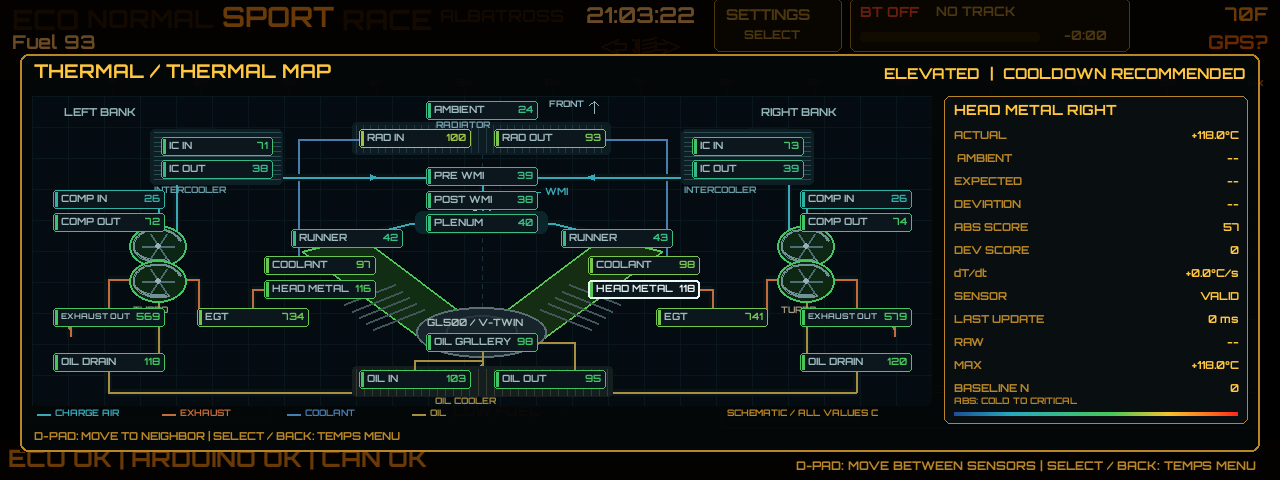
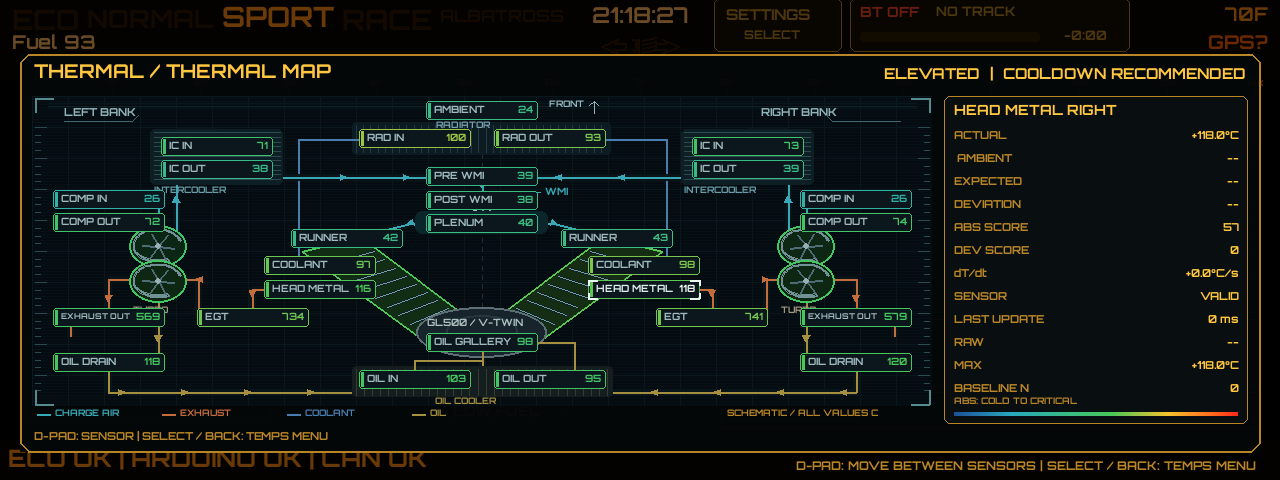
Align cylinder fins and add avionics styling to thermal HUD

diff --git a/albatross_pi/hud/thermal_architecture.py b/albatross_pi/hud/thermal_architecture.py
@@ -42,6 +42,28 @@ def neighbor(key, dx, dy):
     return min(choices)[-1] if choices else key
 
 
+def cylinder_geometry(side):
+    """Build the bank and its inset fin spans from the same four corners."""
+    polygon = ((300, 200), (365, 180), (495, 295), (445, 322))
+
+    def lerp(a, b, t):
+        return tuple(x + (y - x) * t for x, y in zip(a, b))
+
+    def bank_point(point):
+        x, y = point
+        return (1000 - x if side == "RIGHT" else x, y)
+
+    fins = []
+    for n in range(8):
+        t = .16 + n * .09
+        outer = lerp(polygon[0], polygon[3], t)
+        inner = lerp(polygon[1], polygon[2], t)
+        # Inset both ends so line width and pixel rounding stay on the casting.
+        fins.append((bank_point(lerp(outer, inner, .10)),
+                     bank_point(lerp(outer, inner, .90))))
+    return tuple(map(bank_point, polygon)), fins
+
+
 class FlowAnimation:
     """Presentation-only phases; boost controls visual revolutions, never torque."""
     ARROW_SPACING = 70.0
@@ -56,6 +78,7 @@ class FlowAnimation:
         self.rotors = {"LEFT": 0.0, "RIGHT": 0.0}
         self.speeds = {"LEFT": 0.0, "RIGHT": 0.0}
         self.flow = 0.0
+        self.raster = 0.0
 
     @classmethod
     def boost(cls, engine, side):
@@ -69,6 +92,7 @@ class FlowAnimation:
         dt = 0.0 if self.last_ms is None else max(0.0, min(.1, (now_ms - self.last_ms) / 1000.0))
         self.last_ms = now_ms
         self.flow = (self.flow + dt * self.FLOW_SPEED) % self.ARROW_SPACING
+        self.raster = (self.raster + dt * 42.0) % 400.0
         for side in self.rotors:
             # Screen rotations/second only, explicitly not a turbo RPM estimate.
             target = self.IDLE_RPS + self.RPS_PER_PSI * self.boost(engine, side)
@@ -109,9 +133,21 @@ def draw_architecture(surface, area, state, selected, dev, score_color, animatio
         return score_color((reading.thermal_dev if dev else reading.thermal_abs) if reading else 0, bool(reading and reading.valid))
     pygame.draw.rect(surface,(4,12,17),area,border_radius=6)
     old_clip=surface.get_clip();surface.set_clip(area)
-    # Blueprint field and a mechanical centerline make the transverse layout legible.
+    # Subtle phosphor raster under the schematic, never over sensor text.
+    for y in range(2,400,4):line((6,16,21),[(0,y),(1000,y)],1)
+    # Blueprint field and avionics-style edge graduations.
     for x in range(0,1001,40):line((10,24,30),[(x,0),(x,400)],1)
     for y in range(0,401,40):line((10,24,30),[(0,y),(1000,y)],1)
+    # A low-contrast CRT refresh sweep lives behind every component and reading.
+    for offset,color in ((-6,(7,19,24)),(-3,(9,24,29)),(0,(15,34,39)),(3,(9,24,29))):
+        y=(animation.raster+offset)%400
+        line(color,[(18,y),(982,y)],1)
+    for y in range(40,381,10):
+        tick=12 if y%40==0 else 6
+        line((41,76,81),[(3,y),(3+tick,y)],1)
+        line((41,76,81),[(997-tick,y),(997,y)],1)
+    for x,y,dx,dy in ((3,3,1,1),(997,3,-1,1),(3,397,1,-1),(997,397,-1,-1)):
+        line((85,139,142),[(x+dx*20,y),(x,y),(x,y+dy*18)],2)
     for y in range(75,340,12):line((24,49,56),[(500,y),(500,y+5)],1)
     label("FRONT",574,5,(144,183,190),9)
     line((144,183,190),[(624,22),(624,6),(619,11),(624,6),(629,11)],1)
@@ -127,6 +163,7 @@ def draw_architecture(surface, area, state, selected, dev, score_color, animatio
         def p(x,y):return (1000-x if mirror else x,y)
         def bank_pipe(points,color):pipe([p(x,y) for x,y in points],color)
         label(side+" BANK",35 if not mirror else 810,14,(146,180,184),11)
+        line((62,104,109),[p(35,32),p(111,32),p(118,25)],1)
         bank_pipe([(85,133),(140,133),(140,193)],charge)
         bank_pipe([(140,193),(160,193),(160,45),(205,45),(205,65)],charge)
         bank_pipe([(205,95),(260,95),(260,104),(500,104)],charge)
@@ -152,12 +189,12 @@ def draw_architecture(surface, area, state, selected, dev, score_color, animatio
             pygame.draw.circle(surface,(152,176,178),point(cx,y),3)
         label("TURBO",cx-28,271,(166,153,130),9)
         # Finned cylinder bank leans outward from the shared crankcase.
-        polygon=[p(300,200),p(365,180),p(495,295),p(445,322)]
+        polygon,fins=cylinder_geometry(side)
         pygame.draw.polygon(surface,tuple(max(15,int(c*.23)) for c in heat("HEAD_METAL_"+side)),[point(*v) for v in polygon])
         pygame.draw.polygon(surface,heat("HEAD_METAL_"+side),[point(*v) for v in polygon],2)
-        for n in range(5):
-            yy=255+n*8;xx=373+n*8
-            line((66,85,89),[p(xx-26,yy+14),p(xx+30,yy-12)],2)
+        for endpoints in fins:
+            line((17,35,40),endpoints,3)
+            line((112,156,153),endpoints,1)
     # Shared water/meth treatment, plenum and V-twin crankcase.
     pipe([(500,104),(500,164)],charge)
     pygame.draw.ellipse(surface,(121,172,175),rect(488,145,24,14),1)
@@ -181,7 +218,13 @@ def draw_architecture(surface, area, state, selected, dev, score_color, animatio
         reading=state.thermal.get(key);valid=bool(reading and reading.valid)
         color=heat(key);focus=key==selected
         pygame.draw.rect(surface,(12,23,29),box,border_radius=3)
-        pygame.draw.rect(surface,(234,249,243) if focus else color,box,2 if focus else 1,border_radius=3)
+        pygame.draw.rect(surface,color,box,1,border_radius=3)
+        if focus:
+            # A steady acquisition bracket, not a flashing warning indicator.
+            for bx,by,dx,dy in ((box.left,box.top,1,1),(box.right-1,box.top,-1,1),
+                                (box.left,box.bottom-1,1,-1),(box.right-1,box.bottom-1,-1,-1)):
+                pygame.draw.lines(surface,(234,249,243),False,
+                                  [(bx+dx*9,by),(bx,by),(bx,by+dy*5)],2)
         pygame.draw.rect(surface,color,(box.x+2,box.y+2,3,box.height-4))
         value=f"{reading.temperature_c:.0f}" if valid else "--"
         vs=font(10,bold=True).render(value,True,(238,248,243) if focus else color)

diff --git a/tests/run_thermal_geometry_checks.py b/tests/run_thermal_geometry_checks.py
@@ -1,0 +1,59 @@
+"""Cylinder fins stay inset on both banks of the thermal schematic."""
+import math
+import sys
+from pathlib import Path
+
+sys.path.insert(0, str(Path(__file__).resolve().parents[1]))
+from albatross_pi.hud.thermal_architecture import cylinder_geometry
+
+
+def _cross(a, b, point):
+    return (b[0] - a[0]) * (point[1] - a[1]) - (b[1] - a[1]) * (point[0] - a[0])
+
+
+def _inside_distances(polygon, point):
+    """Signed distances to each edge, positive inside either winding."""
+    winding = 1 if _cross(polygon[0], polygon[1], polygon[2]) > 0 else -1
+    return [
+        winding * _cross(a, b, point) / math.dist(a, b)
+        for a, b in zip(polygon, polygon[1:] + polygon[:1])
+    ]
+
+
+def check():
+    banks = {side: cylinder_geometry(side) for side in ("LEFT", "RIGHT")}
+    for side, (polygon, fins) in banks.items():
+        polygon = list(polygon)
+        assert len(polygon) == 4, (side, "expected a four-corner cylinder bank")
+        assert len(fins) >= 5, (side, "too few cooling fins")
+        assert all(math.isfinite(v) for point in polygon for v in point)
+        edges = list(zip(polygon, polygon[1:] + polygon[:1]))
+        assert all(math.dist(a, b) > 0 for a, b in edges)
+        turns = [_cross(polygon[i], polygon[(i + 1) % 4], polygon[(i + 2) % 4]) for i in range(4)]
+        assert all(turn > 0 for turn in turns) or all(turn < 0 for turn in turns), (side, "bank must be convex")
+        # Relative to the narrow bank dimension, fins must remain substantial.
+        minimum_span = min(math.dist(a, b) for a, b in edges) * .45
+        assert len(set(tuple(tuple(point) for point in fin) for fin in fins)) == len(fins)
+        for start, end in fins:
+            assert all(math.isfinite(v) for point in (start, end) for v in point)
+            assert math.dist(start, end) >= minimum_span, (side, "fin does not span the bank")
+            for endpoint in (start, end):
+                assert min(_inside_distances(polygon, endpoint)) >= .5, (side, "fin endpoint lacks an inset margin", endpoint)
+            for step in range(21):
+                fraction = step / 20
+                point = tuple(a + (b - a) * fraction for a, b in zip(start, end))
+                assert min(_inside_distances(polygon, point)) >= -1e-9, (side, "fin leaves cylinder", point)
+
+    left_polygon, left_fins = banks["LEFT"]
+    right_polygon, right_fins = banks["RIGHT"]
+    assert len(left_fins) == len(right_fins)
+    left_points = list(left_polygon) + [point for fin in left_fins for point in fin]
+    right_points = list(right_polygon) + [point for fin in right_fins for point in fin]
+    for left, right in zip(left_points, right_points):
+        assert math.isclose(right[0], 1000 - left[0], abs_tol=1e-9)
+        assert math.isclose(right[1], left[1], abs_tol=1e-9)
+    print("Thermal cylinder geometry checks passed.")
+
+
+if __name__ == "__main__":
+    check()

diff --git a/albatross_pi/hud/thermal_views.py b/albatross_pi/hud/thermal_views.py
@@ -78,7 +78,14 @@ class ThermalViews:
         sw, sh = surface.get_size()
         panel = pygame.Rect(20, 54, sw - 40, sh - 82)
         shade = pygame.Surface(panel.size, pygame.SRCALPHA); shade.fill((5, 8, 9, 246))
-        surface.blit(shade, panel.topleft); pygame.draw.rect(surface, glow, panel, 2, border_radius=8)
+        surface.blit(shade, panel.topleft)
+        if page in {"thermal_abs", "thermal_dev"}:
+            # Chamfered multi-function-display bezel; no decorative alert colors.
+            x,y,r,b=panel.left,panel.top,panel.right-1,panel.bottom-1
+            pygame.draw.lines(surface,glow,True,[(x+8,y),(r-8,y),(r,y+8),(r,b-8),
+                                               (r-8,b),(x+8,b),(x,b-8),(x,y+8)],2)
+        else:
+            pygame.draw.rect(surface, glow, panel, 2, border_radius=8)
         title = next((label for label, target in THERMAL_MENU_ITEMS if target == page), "THERMAL")
         status = state.thermal.overall_status
         status_color = fault if status in {"WARNING", "CRITICAL", "DATA FAULT"} else bright
@@ -96,7 +103,7 @@ class ThermalViews:
             self._draw_history(surface, state, content, colors)
         else:
             self._draw_numeric_page(surface, state, content, page, colors)
-        hint = "D-PAD: SENSOR | SELECT / BACK: TEMPS MENU | ROTOR MOTION: BOOST PROXY" if page in {"thermal_abs", "thermal_dev"} else "LEFT/RIGHT: PAGE | SELECT / BACK: TEMPS MENU"
+        hint = "D-PAD: SENSOR | SELECT / BACK: TEMPS MENU" if page in {"thermal_abs", "thermal_dev"} else "LEFT/RIGHT: PAGE | SELECT / BACK: TEMPS MENU"
         surface.blit(font(11, bold=True).render(hint, True, glow), (panel.x + 14, panel.bottom - 21))
 
     @staticmethod

diff --git a/tools/render_thermal_motion.py b/tools/render_thermal_motion.py
@@ -17,6 +17,7 @@ sys.path.insert(0, str(Path(__file__).resolve().parents[1]))
 from PIL import Image
 import pygame
 from albatross_pi.hud.thermal_views import ThermalViews
+from albatross_pi.hud.widgets.ui_utils import font
 from albatross_pi.state.snapshot import StateSnapshot, EngineState
 from albatross_pi.thermal.simulation import ThermalSimulator
 
@@ -29,7 +30,7 @@ def main():
     try:
         surface = pygame.Surface((1280, 480))
         views = ThermalViews()
-        title_font = pygame.font.Font(None, 23)
+        title_font = font(15, bold=True)
         colors = ((4, 12, 17), (255, 198, 64), (148, 166, 167), (255, 80, 40))
         thermal = ThermalSimulator().step(40)
         frames = []
@@ -41,7 +42,7 @@ def main():
             with patch("pygame.time.get_ticks", return_value=n * 50):
                 views.draw(surface, state, "thermal_abs", colors)
             title = title_font.render(
-                f"SYNTHETIC BOOST SWEEP: {boost:04.1f} PSI  /  VISUAL MOTION, NOT SHAFT RPM",
+                f"ALBATROSS // THERMAL SYSTEMS     DEMO BOOST: {boost:04.1f} PSI",
                 True, (194, 217, 219),
             )
             surface.blit(title, (24, 20))

diff --git a/tests/run_thermal_navigation_checks.py b/tests/run_thermal_navigation_checks.py
@@ -23,6 +23,7 @@ def check():
     for tick in range(0,2001,20):animation.advance(engine,tick)
     assert animation.speeds["RIGHT"]>animation.speeds["LEFT"]>0
     assert 0<=animation.rotors["LEFT"]<360 and animation.flow>0
+    assert 0<animation.raster<400
     previous=animation.speeds["RIGHT"]
     animation.advance(EngineState(boost_psi=0),2020)
     assert 0<animation.speeds["RIGHT"]<previous
@@ -37,10 +38,13 @@ def check():
     for tick in range(0,2001,10):fast.advance(engine,tick)
     assert abs(slow.rotors["RIGHT"]-fast.rotors["RIGHT"])<1e-8
     assert abs(slow.speeds["RIGHT"]-fast.speeds["RIGHT"])<1e-8
+    assert abs(slow.raster-fast.raster)<1e-8
     # Wrapped arrow phase and long page absences must not cause large jumps.
     slow.flow=slow.ARROW_SPACING-1
+    slow.raster=399
     slow.advance(engine,100000)
     assert abs(slow.flow-2.4)<1e-8
+    assert abs(slow.raster-3.2)<1e-8
     phase=slow.rotors["RIGHT"]
     slow.advance(engine,100000)
     assert slow.rotors["RIGHT"]==phase

diff --git a/docs/thermal_system.md b/docs/thermal_system.md
@@ -35,7 +35,9 @@ Select the System Vitals window to open TEMPS. ECO/NORMAL use a compact TEMP til
 
 Heat maps display all 29 active sensors on a functional overhead schematic of the twin-turbo transverse V-twin: a forward radiator, mirrored intercoolers and compressor/turbine housings, shared pre/post-WMI and plenum, separate runners and projecting cylinder banks, central crankcase, oil cooler and turbo oil drains. Charge-air/exhaust arrows show direction; coolant and oil connections are schematic, not a fabrication drawing or a specified pump/thermostat installation. Cylinder/scroll outlines and sensor callouts use measured thermal colors, with unavailable readings gray. Turbo drain temperatures are fluid temperatures, not the disabled CHRA housing sensors.
 
-While either heat map is open, animated arrows travel along the charge-air, exhaust and turbo-drain paths. Both rotor drawings on each turbo share a smoothly changing phase: more bank boost means faster visual rotation; missing bank pressure falls back to common boost. Invalid common pressure uses the slow idle visual speed. Motion is explicitly a **boost proxy, not measured shaft RPM or proof of fluid flow**. Presentation constants are bounded separately from engineering calibrations, and animation does not issue commands or alter thermal alerts. Coolant paths remain unarrowed because exact circulation plumbing is unspecified.
+While either heat map is open, animated arrows travel along the charge-air, exhaust and turbo-drain paths. Both rotor drawings on each turbo share a smoothly changing phase: more bank boost means faster visual rotation; missing bank pressure falls back to common boost. Invalid common pressure uses the slow idle visual speed. Motion is a presentation-only **boost proxy, not measured shaft RPM or proof of fluid flow**; that explanation stays in documentation rather than on the HUD. Presentation constants are bounded separately from engineering calibrations, and animation does not issue commands or alter thermal alerts. Coolant paths remain unarrowed because exact circulation plumbing is unspecified.
+
+The map uses a restrained avionics treatment: a chamfered bezel, subtle background raster with a slow CRT sweep, edge graduations and steady corner brackets on the selected sensor. The sweep stays behind components and sensor text, and data and alert colors retain their meaning. Cylinder fins are derived from the same bank polygons as the castings, inset within each bank and mirrored together; `tests/run_thermal_geometry_checks.py` guards their alignment.
 
 All four D-pad directions select a visible neighbor, preferring nearby aligned sensors and stopping at the edge. Navigation and rendering share the same sensor coordinates. The selected sensor remains selected when switching ABS/DEV pages. Select or Back returns to the TEMPS menu; Back from that menu returns to the vitals/TEMP tile. Tests in `tests/run_thermal_navigation_checks.py` cover menu entry, all five drive modes, complete sensor reachability, non-overlapping callout geometry at 1280×480 and 1920×720, and animation bounds, fallback and timing.
 
